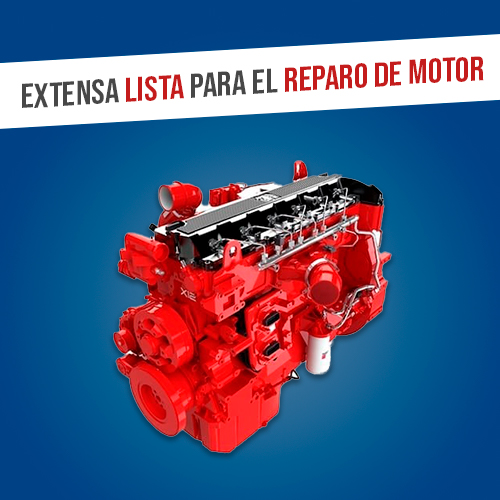
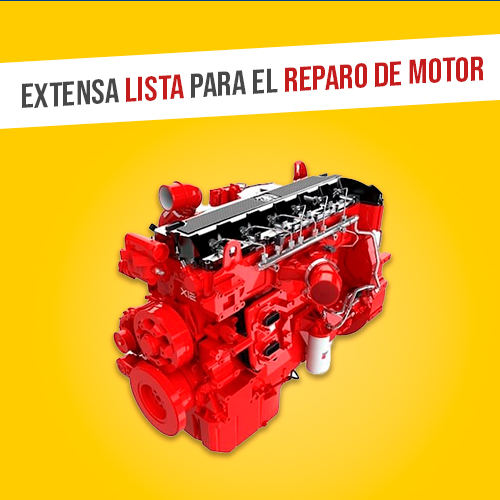
Correcciones del pdf 3.0

diff --git a/src/pages/detalle-tienda.js b/src/pages/detalle-tienda.js
@@ -45,12 +45,20 @@ const DetalleTienda = () => {
         <meta name="description" content="Generated by create next app" />
       </Head>
       <h1 className={styles.detalleTienda_title}>
-        TIENDA{' '}
-        <span>{params.tienda.toUpperCase()}</span>
+        TIENDA <span>{params.tienda.toUpperCase()}</span>
       </h1>
 
+      <div className={styles.detalleTienda_logoM}>
+        <img src="/images/tienda.jpg" alt="" />
+      </div>
+
       {/* SELECT PARA MOBILE */}
-      <Select name="options" value={actualTab} onChange={handleChange} className={styles.select}>
+      <Select
+        name="options"
+        value={actualTab}
+        onChange={handleChange}
+        className={styles.select}
+      >
         {Object.keys(tabs).map((tab) => (
           <option key={`TABM-${tab}`} value={tab}>
             {tab}
@@ -61,11 +69,19 @@ const DetalleTienda = () => {
       {/* TABS PARA DESKTOP */}
       <div className={styles.tabs}>
         {Object.keys(tabs).map((tab) => (
-          <button className={styles.tabs_item} onClick={() => setActualTab(tab)} key={`TABD-${tab}`}>
+          <button
+            className={styles.tabs_item}
+            onClick={() => setActualTab(tab)}
+            key={`TABD-${tab}`}
+          >
             <span>{tab}</span>
             <ChevronDown />
           </button>
         ))}
+
+        <div className={styles.detalleTienda_logoD}>
+          <img src="/images/tienda.jpg" alt="" />
+        </div>
       </div>
 
       {/* CONTENT */}

diff --git a/src/components/TiendaTabs/Whatsapp.js b/src/components/TiendaTabs/Whatsapp.js
@@ -10,20 +10,35 @@ const Whatsapp = () => {
       <h3>NUESTROS ASESORES COMERCIALES TE ATENDERÁN DE INMEDIATO</h3>
 
       <div className={styles.whatsapp_wrap}>
-        <button className={`btn ${styles.whatsapp_item}`}>
+        <a
+          href="https://wa.me/999999999?text=MENSAJE%20DE%20PRUEBA"
+          target="_blank"
+          rel="noreferrer"
+          className={`btn ${styles.whatsapp_item}`}
+        >
           <WhatsappIcon />
           <p>Nelson Manrique</p>
-        </button>
+        </a>
 
-        <button className={`btn ${styles.whatsapp_item}`}>
+        <a
+          href="https://wa.me/999999999?text=MENSAJE%20DE%20PRUEBA"
+          target="_blank"
+          rel="noreferrer"
+          className={`btn ${styles.whatsapp_item}`}
+        >
           <WhatsappIcon />
           <p>Ariana Figueroa</p>
-        </button>
+        </a>
 
-        <button className={`btn ${styles.whatsapp_item}`}>
+        <a
+          href="https://wa.me/999999999?text=MENSAJE%20DE%20PRUEBA"
+          target="_blank"
+          rel="noreferrer"
+          className={`btn ${styles.whatsapp_item}`}
+        >
           <WhatsappIcon />
           <p>Fernando Gonzales</p>
-        </button>
+        </a>
       </div>
     </div>
   )

diff --git a/src/styles/components/detalle-tienda/detalle-tienda.module.scss b/src/styles/components/detalle-tienda/detalle-tienda.module.scss
@@ -2,22 +2,49 @@
 @import '@/styles/variables';
 
 .detalleTienda {
-  padding-top: 4rem;
+  // padding-top: 4rem;
   width: 90%;
   margin: 0 auto;
   max-width: 1200px;
 
+  @include break_lg {
+    padding-top: 4rem;
+  }
+
+  &_logoM {
+    margin-bottom: 20px;
+
+    @include break_md {
+      display: none;
+    }
+    
+    img {
+      width: 100%;
+    }
+  }
+
+  &_logoD {
+    display: none;
+    max-width: 100px;
+
+    @include break_md {
+      display: block;
+      margin-left: auto;
+    }
+
+    img {
+      width: 100%;
+    }
+  }
+
   &_title {
     margin: 0;
-    font-size: 16px;
-    font-family: Roboto;
+    font-size: 24px;
     margin-block: 2rem;
+    font-family: Roboto;
 
     @include break_lg {
-      font-size: 20px;
-    }
-    @include break_xl {
-      font-size: 24px;
+      font-size: 28px;
     }
 
     span {

diff --git a/src/components/Features/features.module.scss b/src/components/Features/features.module.scss
@@ -34,20 +34,14 @@
   }
 
   button {
-    width: 80px;
-    min-width: 80px;
-    max-width: 80px;
+    width: 50px;
+    min-width: 50px;
+    max-width: 50px;
 
     @include break_sm {
-      width: 50px;
-      min-width: 50px;
-      max-width: 50px;
       margin-right: 5rem;
     }
     @include break_md {
-      margin-right: 0rem;
-    }
-    @include break_xl {
       margin-right: 0rem;
     }
 

diff --git a/src/components/Sidebar/sidebar.module.scss b/src/components/Sidebar/sidebar.module.scss
@@ -1,3 +1,4 @@
+@import '@/styles/mixins';
 @import '@/styles/variables';
 
 .sidebar {
@@ -38,8 +39,13 @@
     height: 100vh;
     max-width: 300px;
     padding: 3rem 2rem;
-    background-color: $primary;
     color: $body-letter-color;
+
+    background: #FFCB25;
+    
+    @include break_md {
+      background: $primary;
+    }
 
     img {
       width: 200px;

diff --git a/src/components/Presentation/index.js b/src/components/Presentation/index.js
@@ -8,7 +8,7 @@ import Dot from '@/svg/Dot'
 // styles
 import styles from './presentation.module.scss'
 
-const SLIDES = ['NEUMATICO.jpg', 'MOTOR.jpg', 'Aceite.jpg']
+const SLIDES = ['NEUMATICO.jpg', 'MOTOR.jpg', 'ACEITES.jpg']
 
 const Presentation = () => {
   const [actualSlide, setActualSlide] = useState(0)

diff --git a/src/components/Slogan/slogan.module.scss b/src/components/Slogan/slogan.module.scss
@@ -2,11 +2,15 @@
 @import '@/styles/variables';
 
 .slogan {
+  display: none;
   margin-top: 2rem;
   
   @include break_sm {
     margin-top: 0rem;
     margin-block: 2rem;
+  }
+  @include break_md {
+    display: block;
   }
 
   h1 {

diff --git a/src/styles/components/proveedores/proveedores.module.scss b/src/styles/components/proveedores/proveedores.module.scss
@@ -177,7 +177,7 @@
       & > div {
         z-index: 3;
         padding: 1rem;
-        background-color: $primary-400;
+        background-color: #FFCB25;
       }
   
       h3,

diff --git a/src/styles/components/tienda/tienda.module.scss b/src/styles/components/tienda/tienda.module.scss
@@ -81,7 +81,7 @@
       z-index: 3;
       padding: 1rem;
       margin-bottom: 1rem;
-      background-color: $primary;
+      background-color: #FFCB25;
 
       h3,
       p {
